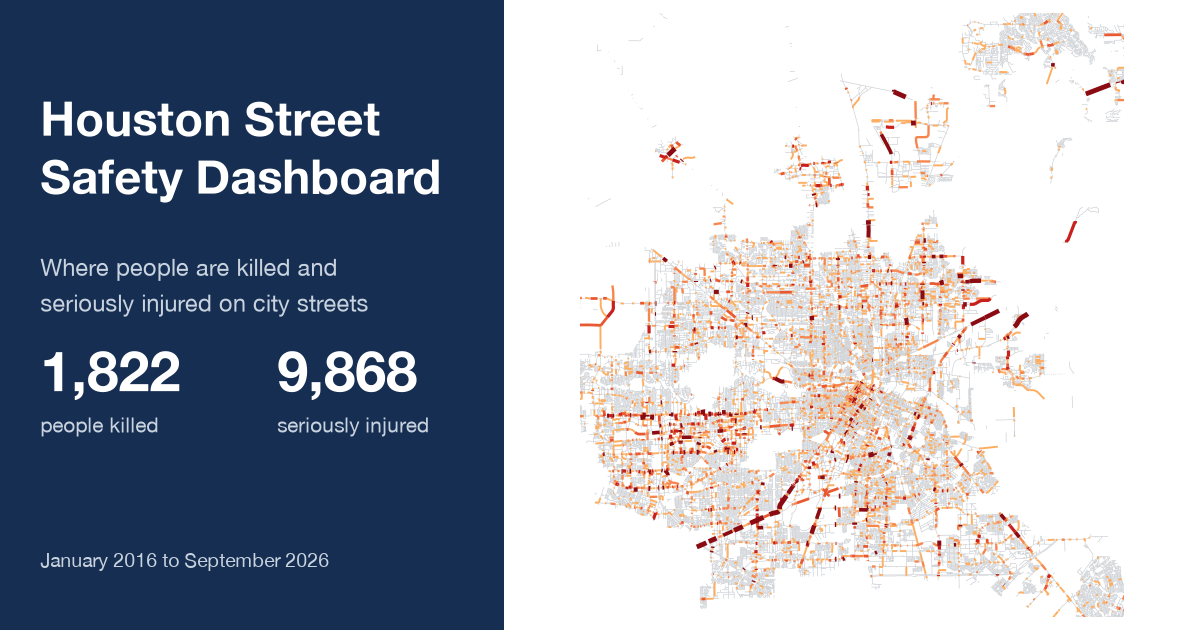
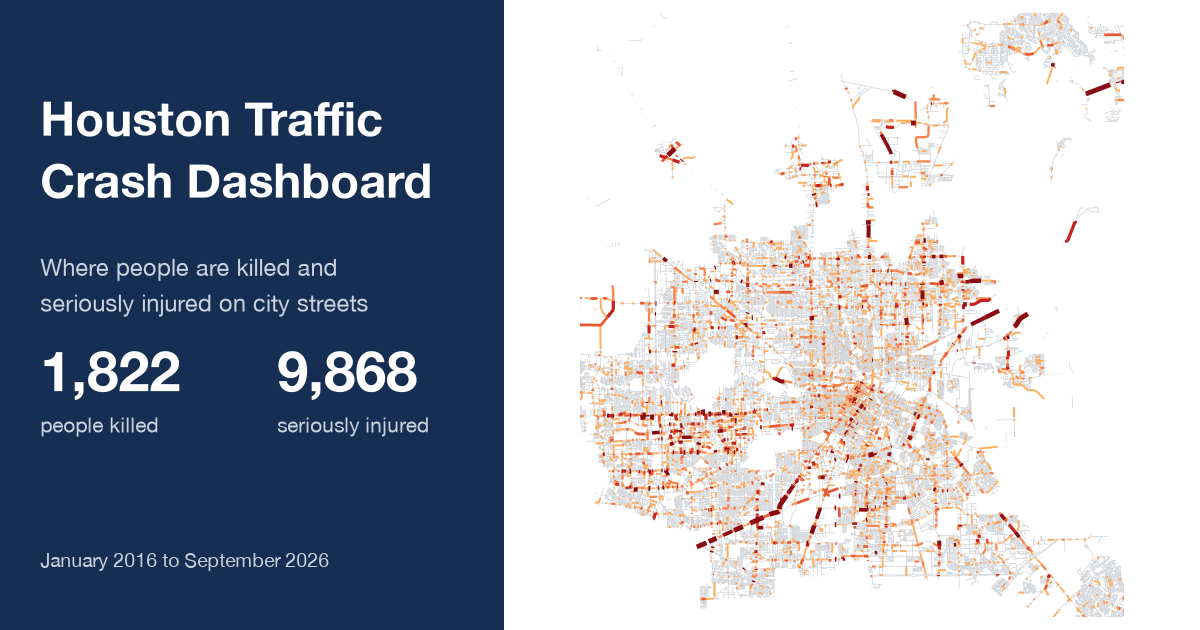
Rename to Houston Traffic Crash Dashboard; log frontage-road sizing

Changed region(s): [[0.0308, 0.1508, 0.37, 0.3317]]

diff --git a/docs/vision-zero.html b/docs/vision-zero.html
@@ -3,26 +3,26 @@
 <head>
 <meta charset="utf-8" />
 <meta name="viewport" content="width=device-width, initial-scale=1" />
-<title>Houston Street Safety Dashboard: Traffic Deaths and Serious Injuries in Houston</title>
-<script type="application/ld+json">{"@context":"https://schema.org","@type":"WebSite","name":"Houston Street Safety Dashboard","alternateName":"Houston Street Safety","url":"https://wrenvin.github.io/PharisFellowshipVisionZero/vision-zero.html"}</script>
-<meta name="application-name" content="Houston Street Safety Dashboard" />
+<title>Houston Traffic Crash Dashboard: Traffic Deaths and Serious Injuries in Houston</title>
+<script type="application/ld+json">{"@context":"https://schema.org","@type":"WebSite","name":"Houston Traffic Crash Dashboard","alternateName":"Houston Crash Dashboard","url":"https://wrenvin.github.io/PharisFellowshipVisionZero/vision-zero.html"}</script>
+<meta name="application-name" content="Houston Traffic Crash Dashboard" />
 <meta name="description" content="An interactive map and dashboard of where people are killed or seriously injured on Houston's city streets, 2016 to 2026. Filter by district, super neighborhood, travel mode and more." />
 <link rel="canonical" href="https://wrenvin.github.io/PharisFellowshipVisionZero/vision-zero.html" />
 <!-- Open Graph -->
 <meta property="og:type" content="website" />
-<meta property="og:site_name" content="Houston Street Safety Dashboard" />
-<meta property="og:title" content="Houston Street Safety Dashboard" />
+<meta property="og:site_name" content="Houston Traffic Crash Dashboard" />
+<meta property="og:title" content="Houston Traffic Crash Dashboard" />
 <meta property="og:description" content="An interactive map and dashboard of where people are killed or seriously injured on Houston's city streets, 2016 to 2026. Filter by district, super neighborhood, travel mode and more." />
 <meta property="og:url" content="https://wrenvin.github.io/PharisFellowshipVisionZero/vision-zero.html" />
 <!-- preview image: docs/og-image.png, made by src/make_og_image.py (rerun after each data refresh) -->
 <meta property="og:image" content="https://wrenvin.github.io/PharisFellowshipVisionZero/og-image.png" />
 <meta property="og:image:width" content="1200" />
 <meta property="og:image:height" content="630" />
-<meta property="og:image:alt" content="Houston Street Safety Dashboard: map of Houston streets shaded by people killed or seriously injured" />
+<meta property="og:image:alt" content="Houston Traffic Crash Dashboard: map of Houston streets shaded by people killed or seriously injured" />
 <!-- Twitter -->
 <meta name="twitter:card" content="summary_large_image" />
 <meta name="twitter:image" content="https://wrenvin.github.io/PharisFellowshipVisionZero/og-image.png" />
-<meta name="twitter:title" content="Houston Street Safety Dashboard" />
+<meta name="twitter:title" content="Houston Traffic Crash Dashboard" />
 <meta name="twitter:description" content="An interactive map and dashboard of where people are killed or seriously injured on Houston's city streets, 2016 to 2026. Filter by district, super neighborhood, travel mode and more." />
 <link rel="stylesheet" href="https://unpkg.com/leaflet@1.9.4/dist/leaflet.css" />
 <link rel="preconnect" href="https://fonts.googleapis.com">
@@ -457,7 +457,7 @@
 <body>
 <header class="sitehead">
   <div class="sh-in">
-    <a class="sh-name" href="vision-zero.html">Houston Street Safety Dashboard</a>
+    <a class="sh-name" href="vision-zero.html">Houston Traffic Crash Dashboard</a>
     <nav class="sh-nav" aria-label="Site">
       <a href="vision-zero.html" aria-current="page">Dashboard</a>
       <a href="#" onclick="openWelcome();return false">How to use</a>
@@ -476,7 +476,7 @@
 </header>
 <div class="fbar" id="fbar" aria-live="polite"><div class="sh-in"><span class="fb-lead">Showing</span><span class="fb-chips" id="fb-chips"></span></div></div>
 <div class="wrap">
-  <h1 class="sr-only">Houston Street Safety Dashboard: traffic deaths and serious injuries on Houston streets, January 2016 to September 2026</h1>
+  <h1 class="sr-only">Houston Traffic Crash Dashboard: traffic deaths and serious injuries on Houston streets, January 2016 to September 2026</h1>
 
   <div class="kpis" id="kpis"></div>
 
@@ -2700,7 +2700,7 @@ async function generateReport(cfg){
   const rTitle = (cfg.title||'Traffic deaths and serious injuries').replace(/&/g,'&amp;').replace(/</g,'&lt;');
   const today = new Date().toLocaleDateString('en-US',{year:'numeric',month:'long',day:'numeric'});
   const p1 =
-    '<div class="r-hd"><div><div class="r-eyebrow">Houston Street Safety Dashboard</div>'
+    '<div class="r-hd"><div><div class="r-eyebrow">Houston Traffic Crash Dashboard</div>'
       +'<h1 class="r-title">'+rTitle+'</h1>'
       +'<div class="r-sub">'+subtitle+'</div></div>'
       +'<div class="r-date">Prepared '+today+'<br>wrenvin.github.io/PharisFellowshipVisionZero</div></div>'

diff --git a/docs/index.html b/docs/index.html
@@ -3,10 +3,10 @@
 <head>
 <meta charset="utf-8">
 <meta name="viewport" content="width=device-width, initial-scale=1">
-<title>Houston Street Safety Dashboard</title>
+<title>Houston Traffic Crash Dashboard</title>
 <meta name="description" content="An interactive map and dashboard of where people are killed or seriously injured in traffic crashes across the City of Houston.">
 <meta property="og:type" content="website" />
-<meta property="og:title" content="Houston Street Safety Dashboard" />
+<meta property="og:title" content="Houston Traffic Crash Dashboard" />
 <meta property="og:description" content="An interactive map and dashboard of where people are killed or seriously injured on Houston's city streets." />
 <meta property="og:image" content="https://wrenvin.github.io/PharisFellowshipVisionZero/og-image.png" />
 <meta property="og:image:width" content="1200" />
@@ -20,7 +20,7 @@
 </head>
 <body>
 <div class="b">
-  <h1>Houston Street Safety Dashboard</h1>
+  <h1>Houston Traffic Crash Dashboard</h1>
   <p>Taking you to the dashboard. If it does not open automatically, <a href="vision-zero.html">open it here</a>.</p>
 </div>
 </body>

diff --git a/src/make_og_image.py b/src/make_og_image.py
@@ -62,7 +62,7 @@ def main():
     ax0 = fig.add_axes([0, 0, 0.42, 1])
     ax0.set_axis_off()
     ax0.add_patch(plt.Rectangle((0, 0), 1, 1, color=NAVY, transform=ax0.transAxes))
-    ax0.text(0.08, 0.86, "Houston Street\nSafety Dashboard", color="white", fontsize=34, fontweight="bold",
+    ax0.text(0.08, 0.86, "Houston Traffic\nCrash Dashboard", color="white", fontsize=34, fontweight="bold",
              va="top", linespacing=1.1, transform=ax0.transAxes)
     ax0.text(0.08, 0.60, "Where people are killed and\nseriously injured on city streets", color=MUTED,
              fontsize=17, va="top", linespacing=1.3, transform=ax0.transAxes)

diff --git a/README.md b/README.md
@@ -2,7 +2,7 @@
 
 A traffic-safety analysis and dashboard for the **City of Houston**, built in partnership with the office of Council Member Joseph Panzarella (District C). This is the author's research project for the **Pharis Fellowship** (University of Houston Honors College / HPE Data Science Institute, summer 2026). The pipeline is area-agnostic (see *Retargeting* below) — it began on District C and now covers the whole city.
 
-**The public dashboard, the Houston Street Safety Dashboard** (GitHub Pages; the site root redirects here):
+**The public dashboard, the Houston Traffic Crash Dashboard** (GitHub Pages; the site root redirects here):
 - **🚦 Vision Zero view** (safety-first): https://wrenvin.github.io/PharisFellowshipVisionZero/vision-zero.html — the toll (people killed, **years of life lost**, seriously injured, and the **economic cost** of those crashes) and how **concentrated** the harm is (2.3% of street miles had 50% of all deaths and serious injuries citywide). A sticky **Showing** bar under the header lists every active filter as a removable chip, and every panel names the area and dates it covers. Left-sidebar filters (the sidebar scrolls inside itself beside a map of the same height), in collapsible sections Where / Who / When / Circumstances / Roads / Map (a badge shows how many filters are on in each): find a street (search), one **Area** filter (pick a kind, then an area; zooms and recomputes everything): council district (A–K), super neighborhood (Houston's 88 named planning areas like Montrose or Second Ward), management district, TIRZ (by number), HPD patrol division, ZIP code, or Census tract; only areas at least 95% inside the official city limits are offered, so school districts, county precincts, and ZIPs/tracts that cross the city line are left out; one area at a time, travel mode (everyone / driving / walking / biking), age group and sex of the person killed or seriously injured, years (from/to), month, day of week, time of day (bands), lighting (daylight / dawn or dusk / dark with or without street lights / any dark), contributing factor, road owner (all / city-owned / TxDOT-owned), Show (people killed or injured vs all crashes), Display as (three map levels: shaded whole streets, shaded blocks [the default, labeled Blocks], or crash-location points), a **Freeways toggle** (off by default; adds freeway, toll-road, ramp and frontage-road crashes to every total and chart, drawn as dots since freeways aren't in the shaded street network; toll roads count only under Road owner: All), and an overlay of the City's official High Injury Network (2022, solid purple) for comparison. Panels below the map (fixed order) follow every filter: a **most dangerous streets table** (5 per page with Previous / Next; killed, seriously injured, total, miles, per mile, owner, share on the City's HIN; click a row to select the street) with a line giving the TxDOT-owned and HIN shares of the view; **by year** (with trend line and a year-to-date comparison against the same months of the prior year); **travel mode** (donut); **day and time** (hour by weekday heatmap); **contributing factors** (share of crashes with speeding, failure to yield, red light or stop sign, distraction, alcohol or drugs); **age and sex** of people killed or seriously injured; **lighting**; and **neighborhood income as a rate** (people killed or seriously injured per 100,000 residents per year by block-group income, from `docs/blockgroups.json`). Charts are display only, except that travel mode, age, sex, lighting and contributing factors are also shortcuts: clicking a category sets the matching sidebar filter. **Clicking any street or segment cross-filters the whole dashboard** (every KPI and panel recomputes for that selection); the popup shows the road's physical makeup and a "view this whole street" link widens a block to its corridor. Also: a manual "Blink crash locations" button; a shareable URL that encodes the current filters/selection; a **"Create report" button** that opens a "Create a report" dialog (every filter, the area, a selected street, month-level dates, map style, HIN overlay and the sections are set in the form, starting from the current view), then exports a **two-page printable PDF** (page 1: headline numbers, summary, map, top 10 streets; page 2: all charts and notes) (headline stats, a one-line summary, the map, the selected breakdown charts, and a most-affected-streets table, with no UI chrome) for city-council and print use; and a "Data & methods" modal with linked official sources. Single-screen desktop layout, keyboard-accessible, mobile-responsive. Plain civic page design modeled on other cities' Vision Zero dashboards and the U.S. Web Design System (navy header, Public Sans, blue for controls, red only for data), with a header line and footer stating it is not an official City of Houston website.
 - *(Retired: the data-first "Street Explorer" at the site root has been deprecated and taken offline; the root now redirects to the Vision Zero dashboard. The old page is preserved in git history.)*
 

diff --git a/ROADMAP.md b/ROADMAP.md
@@ -10,12 +10,13 @@ Running checklist of improvements to the public Vision Zero dashboard. Newest id
 - [ ] **Fix retired City GIS address.** `src/fetch_superneighborhoods.py`, `src/export_hin.py`, `src/fetch_boundary.py` and `src/conflate_landuse.py` use `mycity2.houstontx.gov/pubgis02/...`, which no longer responds; the City moved to `.../gisweb02/...`. Boundaries already on disk are fine; a re-fetch would fail until updated.
 - [ ] **Name the remaining management districts.** HCID #8, #10-A, #12, #16, #24 and Harris County PID #2 are inside the city but listed only by number in City data; add them once their names are confirmed.
 - [ ] **School districts.** None qualify under the within-the-city rule (Houston ISD is 91% inside). Revisit only if the dashboard expands beyond the city.
-- [ ] **Decide on frontage roads.** Frontage ("SER") roads currently count as freeways: hidden by default, included by the Freeways toggle. They have driveways, bus stops, and people walking (at least 15 deaths in 2024). Judgment call: keep them with freeways, or move them onto the default city-street view. Coding is consistent (2026-10-31 check: 99.9% of frontage-named crashes classified as freeway/frontage), so either choice is a clean switch.
+- [ ] **Decide on frontage roads.** Frontage ("SER") roads currently count as freeways: hidden by default, included by the Freeways toggle. They have driveways, bus stops, and people walking (at least 15 deaths in 2024). Judgment call: keep them with freeways, or move them onto the default city-street view. Coding is consistent (2026-10-31 check: 99.9% of frontage-named crashes classified as freeway/frontage), so either choice is a clean switch. Size: frontage roads add 289 killed and 1,602 seriously injured (+16% over city streets); main lanes are 764 / 3,443. Best done by adding frontage segments to the dashboard's street network (FREEWAY_PLAN step 4), not as dots.
 - [ ] **Repo size.** `data/processed/houston_crashes.gpkg` is 66 MB and committed; GitHub warns above 50 MB and blocks pushes above 100 MB. It grows with every data refresh. Options: stop committing it (it regenerates from raw CRIS) or move it to Git LFS.
 - [ ] **Custom domain (optional).** Site lives on a personal github.io address. A custom domain can be added later without breaking existing links.
 
 ## Done
 
+- [x] 2026-10-31 Renamed the site Houston Traffic Crash Dashboard ("Street Safety" could read as policing).
 - [x] 2026-10-31 Counts are of people, not crashes (1,822 killed, 9,868 seriously injured); travel mode, age and sex per person; link-preview image; GoatCounter visit counter; frontage-road coding checked; report trend sentence fixed.
 - [x] 2026-10-31 Concentration KPI restored with plain wording ("2.3% of street miles had 50% of deaths and serious injuries"); Top 10 streets KPI dropped.
 - [x] 2026-10-31 KPI "Top 10 streets" replaces "Harm is concentrated"; notice bar under the header removed (notice kept in the guide, footer and report).

diff --git a/LOG.md b/LOG.md
@@ -4,6 +4,11 @@ Dated record of what was done, what was decided, and why. Newest entries at the 
 
 ---
 
+## 2026-10-31 — Renamed: Houston Traffic Crash Dashboard; frontage-road sizing
+
+- **Rename.** "Street Safety" could read as crime and policing. Candidates compared: Houston Traffic Safety Dashboard, Houston Traffic Crash Dashboard, Houston Traffic Deaths and Injuries, Safer Streets Houston. Vincent chose **Houston Traffic Crash Dashboard** (literal, matches what people search for). Updated the header, browser and search title, Open Graph/Twitter tags, schema.org name, report header, redirect page, preview image and README. Older LOG entries keep the old name as history.
+- **Frontage roads sized** (people, 2016 to September 2026): city streets 1,822 killed / 9,868 seriously injured; frontage roads 289 / 1,602 (+16% each; 87 people walking killed, +14%); freeway main lanes 764 / 3,443; ramps and connectors 70 / 184. Frontage roads would not overwhelm the default view; main lanes would. They live in `freeway_crash_points.json` (road_type 1, not separated from main lanes) and are not in the street network, so moving them would mean either dots by default or, better, adding frontage segments to the dashboard network (FREEWAY_PLAN step 4). Not decided.
+
 ## 2026-10-31 — People, not crashes; link preview; visit counter; frontage check
 
 - **The dashboard counted crashes where it said people.** "People killed" showed fatal crashes (1,729) and "Seriously injured" showed serious-injury crashes (8,482); the charts, table, map shading and year-to-date line did the same. Now, with "Killed or seriously injured", every count is of **people** from the person records: **1,822 killed** (matches the crash records' own death counts exactly) and **9,868 seriously injured**. Each person code now also carries how the person was traveling (`Prsn_Type_ID`: walking, biking, in or on a vehicle; code = 64*travel + 32*killed + 4*age + sex), so travel mode, age and sex pick people: walking = 616 people killed and 1,722 seriously injured (was crashes that involved a pedestrian). A crash is in the view when at least one of its people matches. "All crashes" still counts crashes. Checked: KPI killed + seriously injured = donut total = year chart total (11,690 citywide; 2,338 walking; 1,012 age 65+). Concentration moved from 2.3% to 2.1% of street miles. Years of life lost counts crashes where a matching person was killed.
